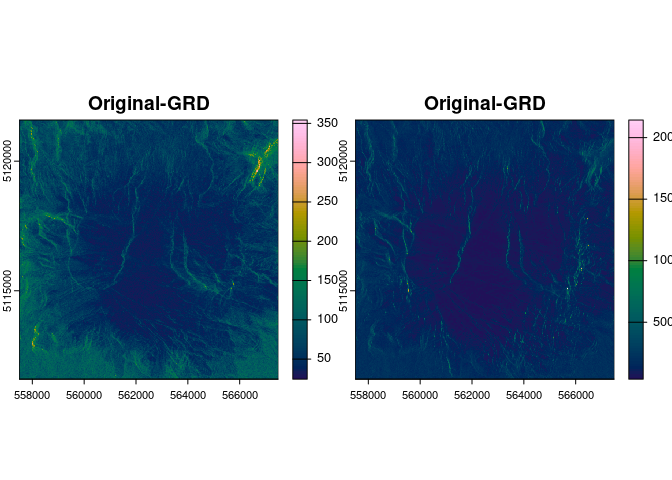
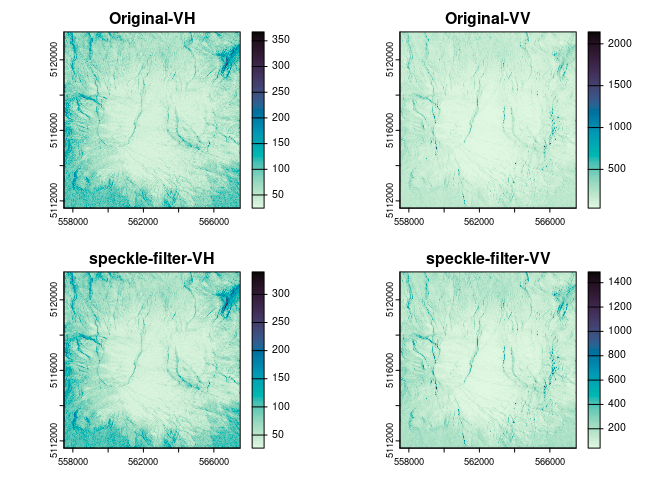
minor bug fix and improve readme

diff --git a/README.md b/README.md
@@ -9,14 +9,37 @@
 
 [![Lifecycle:
 experimental](https://img.shields.io/badge/lifecycle-experimental-orange.svg)](https://lifecycle.r-lib.org/articles/stages.html#experimental)
-<!-- badges: end --> snapr is a proof of concept R package to interact
-with [The ESA Sentinel Applications Platform
-(SNAP)](https://step.esa.int/main/toolboxes/snap/) from R. SNAP provides
-an impressive set of tools for processing satellite data, many of which
-are not available in the wider R ecosystem. snapr is a wrapper for
-SNAP’s Graph Processing Tool (command line interface) and shares
-similar ambitions to the
+<!-- badges: end -->
+
+snapr is a proof of concept R package to interact with [The ESA Sentinel
+Applications Platform (SNAP)](https://step.esa.int/main/toolboxes/snap/)
+from R. SNAP provides an impressive set of tools for processing
+satellite data, many of which are not available in the wider R
+ecosystem. snapr is a wrapper for SNAP’s Graph Processing Tool (command
+line interface) and shares similar ambitions to the
 [SNAPISTA](https://github.com/snap-contrib/snapista) python library.
+
+*Known Issues:*
+
+  - The package has only been tested on Linux. It should theoretically
+    work on Windows and MacOS but the automated installation of SNAP is
+    not yet supported on MacOS. On MacOS, snap will have to be installed
+    manually and the path to the SNAP bin folder will have to be set
+    with the `SNAPR_BIN` environment variable.
+
+  - The following snap operators are currently not supported:
+
+BandMaths, BandMerge, BandsDifferenceOp, Binning, DecisionTree, Merge,
+Mosaic, Multi-size, PixEx, RemoteExecutionOp, SAR-Mosaic,
+SpectralAngleMapperOp, StatisticsOp, TOPSAR-Merge, Unmix.
+
+To see supported oprators run `snapr::get_operators()`.
+
+  - There is little to no validation or checking on the R side for
+    operators and constructing snap graphs. This is something that I
+    believe R will be very well suited to but it is not yet implemented.
+    Therefore we must rely on the somewhat alarming/cryptic messages for
+    the SNAP command line interface.
 
 ## Installation
 
@@ -74,7 +97,7 @@ show_xml(sg)
 #>     <operator>Read</operator>
 #>     <sources/>
 #>     <parameters>
-#>       <file>/tmp/Rtmpa7Yq0I/temp_libpath18d5df6221ad/snapr/s1/mt_st_helens_s1.tif</file>
+#>       <file>/tmp/Rtmpq5pGRz/temp_libpath3c4f3fb1e084/snapr/s1/mt_st_helens_s1.tif</file>
 #>       <formatName/>
 #>       <pixelRegion/>
 #>       <geometryRegion/>
@@ -109,7 +132,7 @@ show_xml(sg)
 #>       <sourceProduct refid="SpeckleFilter"/>
 #>     </sources>
 #>     <parameters>
-#>       <file>/tmp/RtmpqoMqUj/file199cc50ef9a43.tif</file>
+#>       <file>/tmp/RtmpfuqYhT/file2423e5474d882.tif</file>
 #>       <formatName>GeoTIFF</formatName>
 #>       <deleteOutputOnFailure>true</deleteOutputOnFailure>
 #>       <writeEntireTileRows>false</writeEntireTileRows>
@@ -120,13 +143,18 @@ show_xml(sg)
 
 suppressMessages(run_graph(sg))
 
-plot(rast(mt_st_helens_s1), main = "Original-GRD", col = hcl.colors(100, "batlow"))
+all_bands <- c(rast(mt_st_helens_s1), rast(out_file))
+names(all_bands) <- c(
+  "Original-VH", "Original-VV",
+  "speckle-filter-VH", "speckle-filter-VV"
+)
+
+par(mfrow = c(2, 2))
+p <- lapply(all_bands, \(x){
+  title <- names(x)
+  range <- terra::minmax(x, compute = TRUE)
+  plot(x, main = title, col = hcl.colors(100, "mako", rev = TRUE), range = range)
+})
 ```
 
 <img src="man/figures/README-example-1.png" width="100%" />
-
-``` r
-plot(rast(out_file), main = "speckle-filtered", col = hcl.colors(100, "batlow"))
-```
-
-<img src="man/figures/README-example-2.png" width="100%" />
